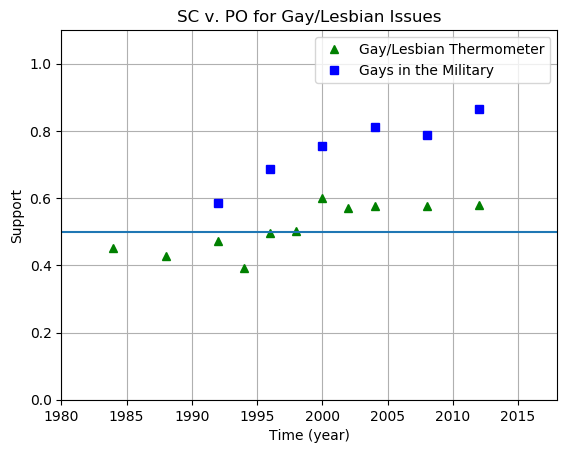
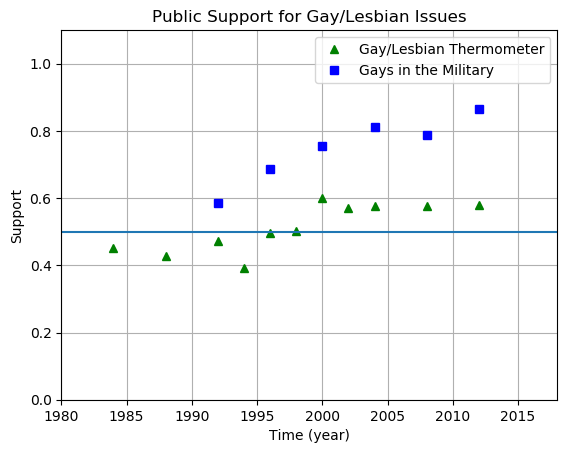
fixed plot title

Changed region(s): [[0.2684, 0.0, 0.8351, 0.0618]]

diff --git a/plots.py b/plots.py
@@ -33,7 +33,7 @@ plt.axhline(y=.5)
 plt.legend()
 plt.xlabel('Time (year)')
 plt.ylabel('Support')
-plt.title('SC v. PO for Gay/Lesbian Issues')
+plt.title('Public Support for Gay/Lesbian Issues')
 plt.grid(True)
 
 min_yr=min(list(sc_support.keys())+list(gay_temp_yr_avg.keys())+list(gay_mil_yr_avg.keys()))
